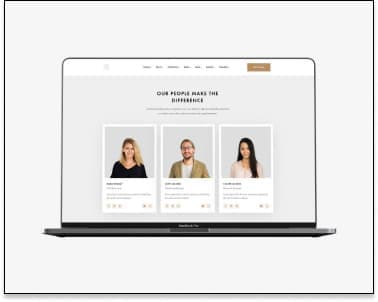
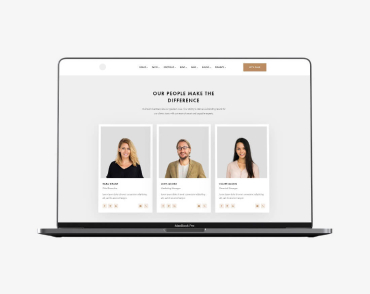
ДЗ-3 - исправления после ментора

diff --git a/css/style.css b/css/style.css
@@ -40,13 +40,13 @@ img {
   padding-left: 15px;
   padding-right: 15px;
   margin: 0 auto;
-  /* outline: 2px dashed #f44336; */
+  outline: 2px dashed #f44336;
 }
 
-section {
+/* section {
   padding-top: 94px;
   padding-bottom: 94px;
-}
+} */
 
 body {
   margin: 0;
@@ -73,7 +73,6 @@ html {
 }
 
 .header-logo {
-  display: flex;
   margin-right: 93px;
   font-family: "Raleway";
   font-weight: 700;
@@ -103,18 +102,27 @@ html {
   list-style: none;
 }
 
+/* .nav-list li {
+  margin-right: 50px;
+} */
+
 .nav-btn {
+  display: block;
   text-decoration: none;
   color: var(--main-text-color);
   padding: 32px 0;
+}
+
+.header-contact {
+  display: block;
 }
 
 .nav-list > .header-item:not(:last-child) {
   margin-right: 50px;
 }
 
-.contact-item:first-child {
-  margin-right: 50px;
+.contact .contact-item + .contact-item {
+  margin-left: 50px;
 }
 
 .nav-list .nav-btn.current {
@@ -150,15 +158,16 @@ html {
 
 .hero {
   text-align: center;
-  padding-top: 0;
+  padding-top: 200px;
+  padding-bottom: 200px;
+  background-color: #2f303a;
 }
 
 .hero-container {
-  background-color: #2f303a;
 }
 .hero-text {
   width: 696px;
-  padding-top: 200px;
+
   margin-left: auto;
   margin-right: auto;
   font-weight: 900;
@@ -174,7 +183,7 @@ html {
   padding: 10px 32px;
   min-width: 200px;
   margin-top: 30px;
-  margin-bottom: 200px;
+
   background: #2196f3;
   box-shadow: 0px 4px 4px rgba(0, 0, 0, 0.15);
   border-radius: 4px;
@@ -198,20 +207,15 @@ html {
 /* Features */
 
 .features {
-  padding-top: 0;
+  padding-top: 94px;
 }
 
 .features-container {
   display: flex;
   flex-wrap: nowrap;
-  margin-left: -10px;
-  margin-top: -10px;
 }
 
 .features-item {
-  margin-left: 10px;
-  margin-top: 10px;
-
   width: 270px;
 }
 
@@ -243,7 +247,8 @@ html {
 /* Чем мы занимаемся */
 
 .works {
-  padding-top: 0;
+  padding-top: 94px;
+  padding-bottom: 94px;
 }
 
 .works-title {
@@ -266,7 +271,8 @@ html {
 
 /* Команда */
 .team {
-  padding-top: 0;
+  padding-top: 94px;
+  padding-bottom: 94px;
   background: #f5f4fa;
   text-align: center;
 }
@@ -280,7 +286,6 @@ html {
   letter-spacing: 0.03em;
   color: var(--main-text-color);
   margin-bottom: 50px;
-  padding-top: 94px;
 }
 
 .img {
@@ -290,13 +295,14 @@ html {
   border-radius: 0px 0px 4px 4px;
 }
 .person-name {
-  padding-top: 30px;
   padding-bottom: 10px;
 }
 
-.profession {
+.person-card {
+  padding-top: 30px;
   padding-bottom: 30px;
 }
+
 .team-person {
   list-style: none;
   display: flex;
@@ -323,8 +329,13 @@ html {
 /* Секция фильров */
 
 .samples-section {
-  padding-top: 115px;
-  padding-bottom: 73px;
+  padding-top: 94px;
+  padding-bottom: 94px;
+}
+
+.visually-hidden {
+  position: absolute;
+  clip: rect(0 0 0 0);
 }
 
 .filter-btn:not(:last-child) {
@@ -339,7 +350,7 @@ html {
   list-style: none;
   display: flex;
   justify-content: center;
-  margin-bottom: 34px;
+  margin-bottom: 54px;
 }
 
 .filter-item {
@@ -403,7 +414,7 @@ html {
 .sample-item {
   display: flex;
   margin-left: -30px;
-  margin-bottom: -30px;
+  margin-top: -30px;
   flex-wrap: wrap;
   text-align: left;
 }
@@ -423,12 +434,15 @@ html {
 .footer {
   background-color: #2f303a;
   padding-top: 60px;
+  padding-bottom: 60px;
 }
 
 .footer-container {
   width: 1200px;
   margin-right: auto;
   margin-left: auto;
+  padding-left: 15px;
+  padding-right: 15px;
 }
 
 .footer-logo {
@@ -456,13 +470,6 @@ html {
 
 .footer-item > .contact-list:not(:last-child) {
   margin-bottom: 9px;
-}
-
-.contact-list:first-child {
-  margin-top: 20px;
-}
-.contact-list:last-child {
-  margin-bottom: 60px;
 }
 
 .footer-contact {

diff --git a/portfolio.html b/portfolio.html
@@ -40,8 +40,8 @@
     <!-- Секция фильров -->
   
     <section class="section samples-section">
-        <div class="container">
-            <h1 hidden>Портфолио</h1>
+        <div class="container samples-container">
+            <h1 class="visually-hidden">Портфолио</h1>
             <!-- этим кнопкам дать фон и цвет текста в обычном стостоянии + в состоянии hover/focus  -->
             <ul class="filter-list">
                 <li class="filter-btn"><button class="filter-item" type="button">Все</button></li>
@@ -50,15 +50,14 @@
                 <li class="filter-btn"><button class="filter-item" type="button">Дизайн</button></li>
                 <li class="filter-btn"><button class="filter-item" type="button">Маркетинг</button></li>
             </ul>
-        </div>
+        
     
 
 
     <!-- Примеры работ -->
-        <div class="container samples-container">
+       
             <ul class="sample-item">
                 <li class="sample-icon"> 
-                    <div class="samples-galery">
                     <a class="sample-link" href="">
                         <img src="./images/sample1.jpg" alt="пример разработки веб сайта" width="370">
                     <div class="sample-content">
@@ -66,7 +65,6 @@
                         <p class="sample-text">Веб-сайт</p>
                     </div> 
                     </a>
-                    </div>
                 </li>
                 
                 <li class="sample-icon">
@@ -158,7 +156,8 @@
                     </div>
                 </li>
             </ul>
-        </div>
+            </div>
+       
        
     </section>
 

diff --git a/index.html b/index.html
@@ -112,15 +112,15 @@
                     </div>
                     </li>
                     <li class="img">
-                        <div class="person-card">
                         <img src="./images/person3.jpg" alt="Фото сотрудника 3" width="270">
+                        <div class="person-card">
                         <h3 class="person-name">Николай Тарасов</h3>
                         <p class="profession" lang="en">Marketing</p>
                     </div>
                     </li>
                     <li class="img">
-                        <div class="person-card">
                         <img src="./images/person4.jpg" alt="Фото сотрудника 4" width="270">
+                        <div class="person-card">
                         <h3 class="person-name">Михаил Ермаков</h3>
                         <p class="profession" lang="en">UI Designer</p>
                     </div>
